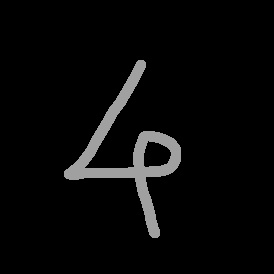
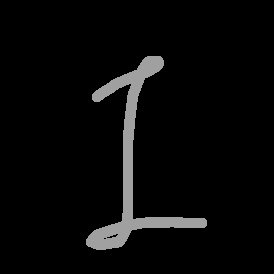
commit

Changed region(s): [[0.2336, 0.2044, 0.7591, 0.9343]]

diff --git a/templates/index.html b/templates/index.html
@@ -121,7 +121,7 @@ function save() {
     </div>
     <div id="result" style="display: flex; vertical-align: middle; justify-content: center;">
       <div>
-        <img src= "/static/genda.jpg" alt="Chart" height="274" width="274">
+        <img src= {{ url1}} alt="Chart" height="274" width="274">
         <img src="/static/arrow.jpg" height="274" width="274">
       </div>
       <div style="height: 274px; margin-left: 1cm;">

diff --git a/run.py b/run.py
@@ -23,16 +23,14 @@ def predict():
         image = np.asarray(bytearray(draw_decoded))
         image = cv2.imdecode(image, cv2.IMREAD_GRAYSCALE)
         resized = cv2.resize(image, (28,28), interpolation = cv2.INTER_AREA)
-        name = '/static/genda.jpg'
-        cv2.imwrite(name ,image)
+        cv2.imwrite("./static/genda.jpg" ,image)
         
         # Neural Networks
         img = (np.expand_dims(resized, 0))
         ann_result = ann_model.predict(img/255.0)
-    
 
 
-    return render_template('index.html',
+    return render_template('index.html', url1 = "./static/genda.jpg",
                            ann_result = np.argmax(ann_result, axis=1)[0], 
                            ann_probs=ann_result[0].round(2), )
 
